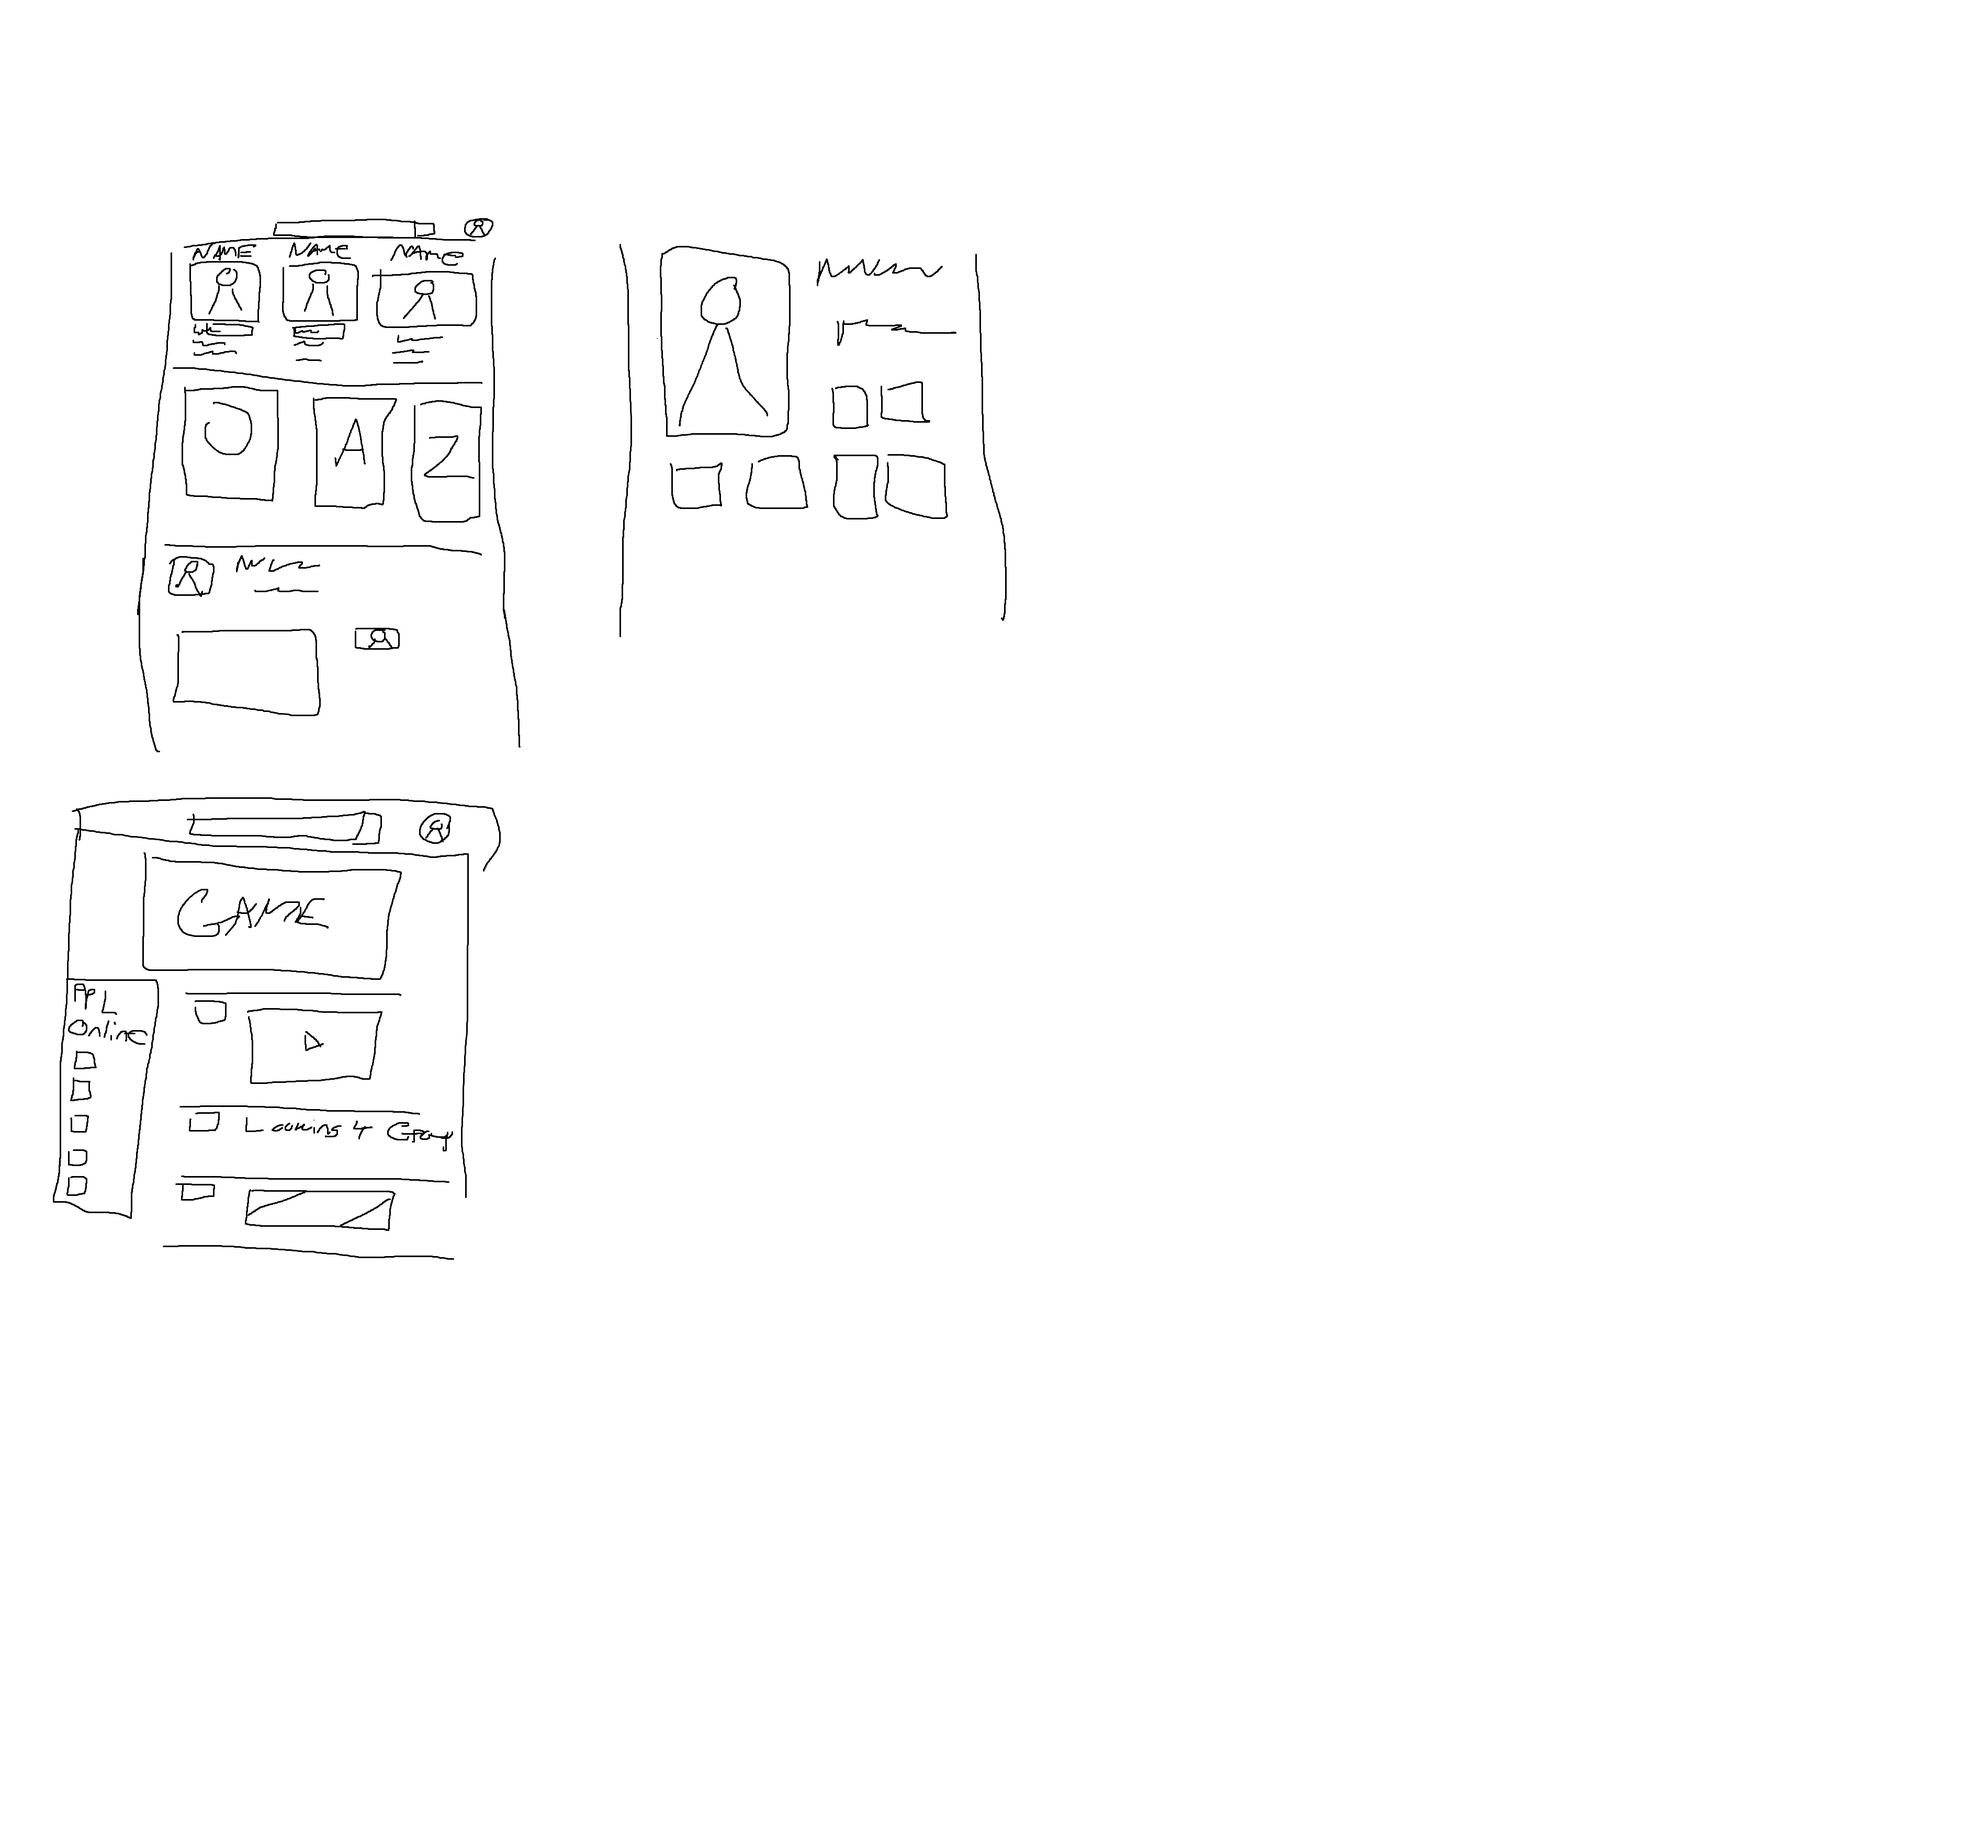
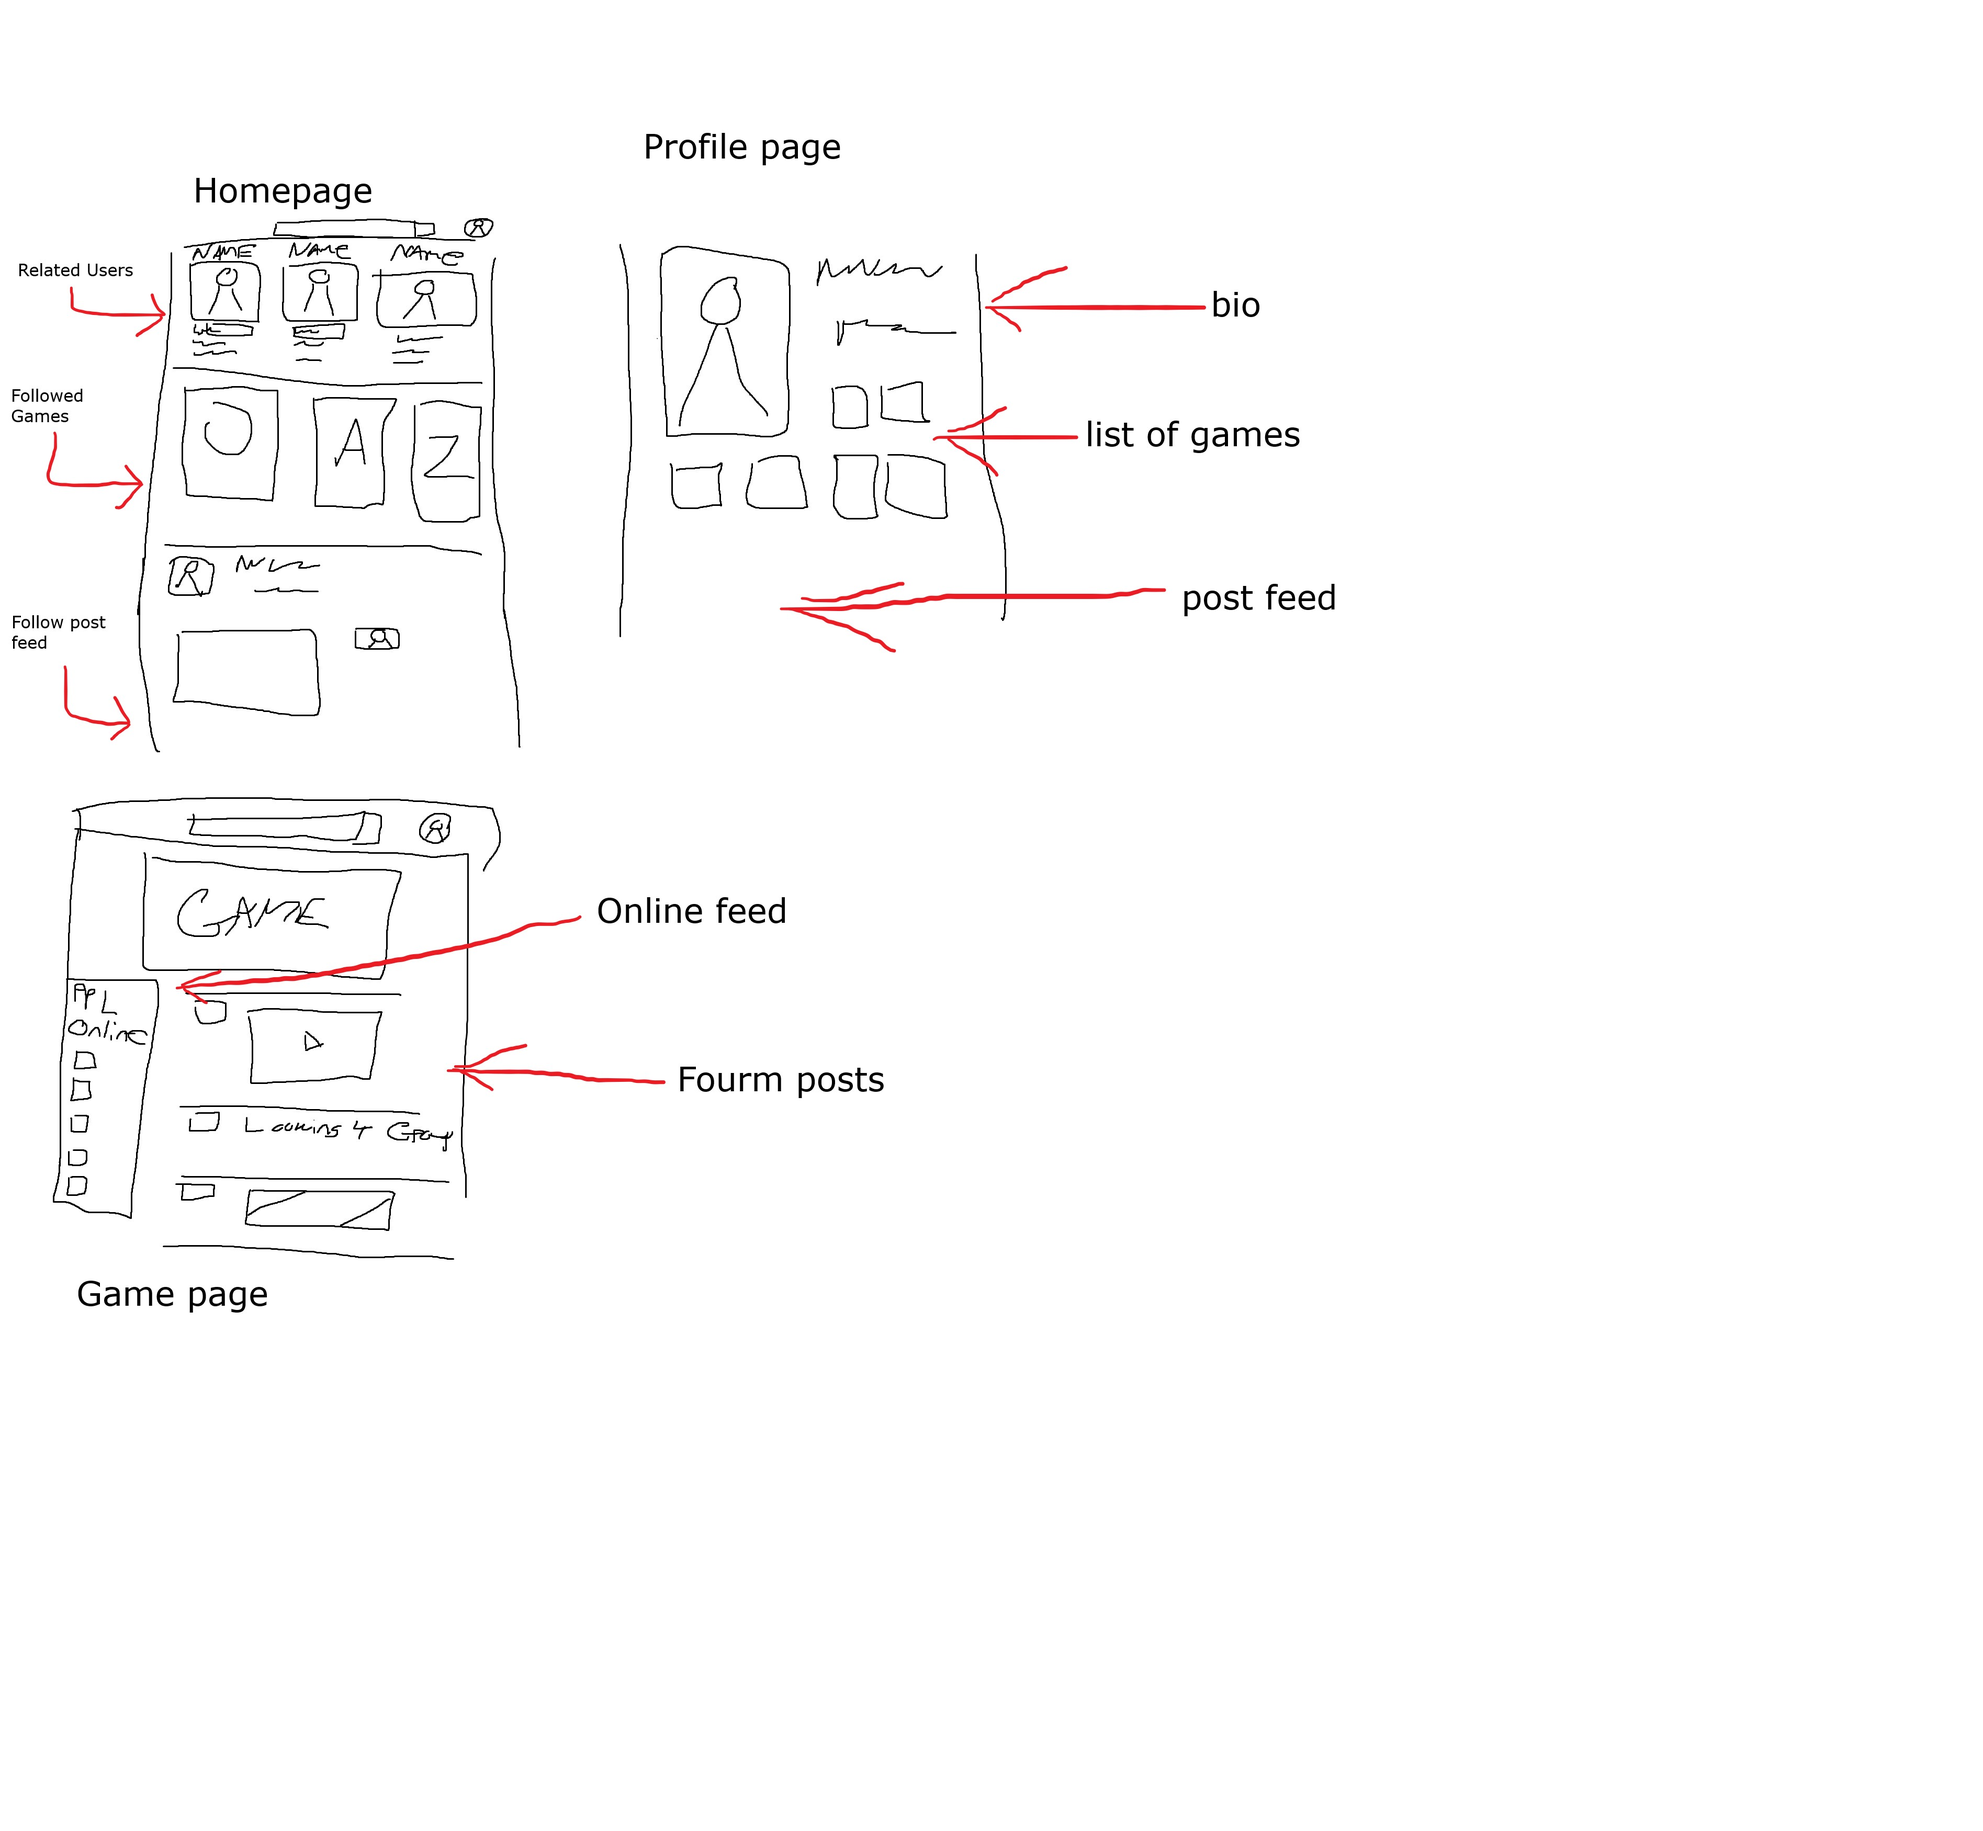
updated framework picture - Jack

diff --git a/README.md b/README.md
@@ -8,3 +8,23 @@ AS A developer with an intrest in gaming
 I WANT a website that can connect me with people who have simialr intrests
 SO THAT I can have a sense of community and make new connections
 ```
+## TO-DO
+- Project Pitch(User Story) ✔
+- Technologies being used
+- database ERD 
+- The steps needed to create the project ✔
+- A link to the repo with everyone having access
+- Basic Wire Frame ✔
+
+### Steps
+- Group up
+- Concept/idea for project
+- Webpage layout
+- Database set up
+- Server set up
+- heroku transer
+- set up presentation
+
+### Basic Wire Frame
+
+![Basic wire frame made in Paint](./misc_stuff/idea_Paint_Project_2.jpg)
